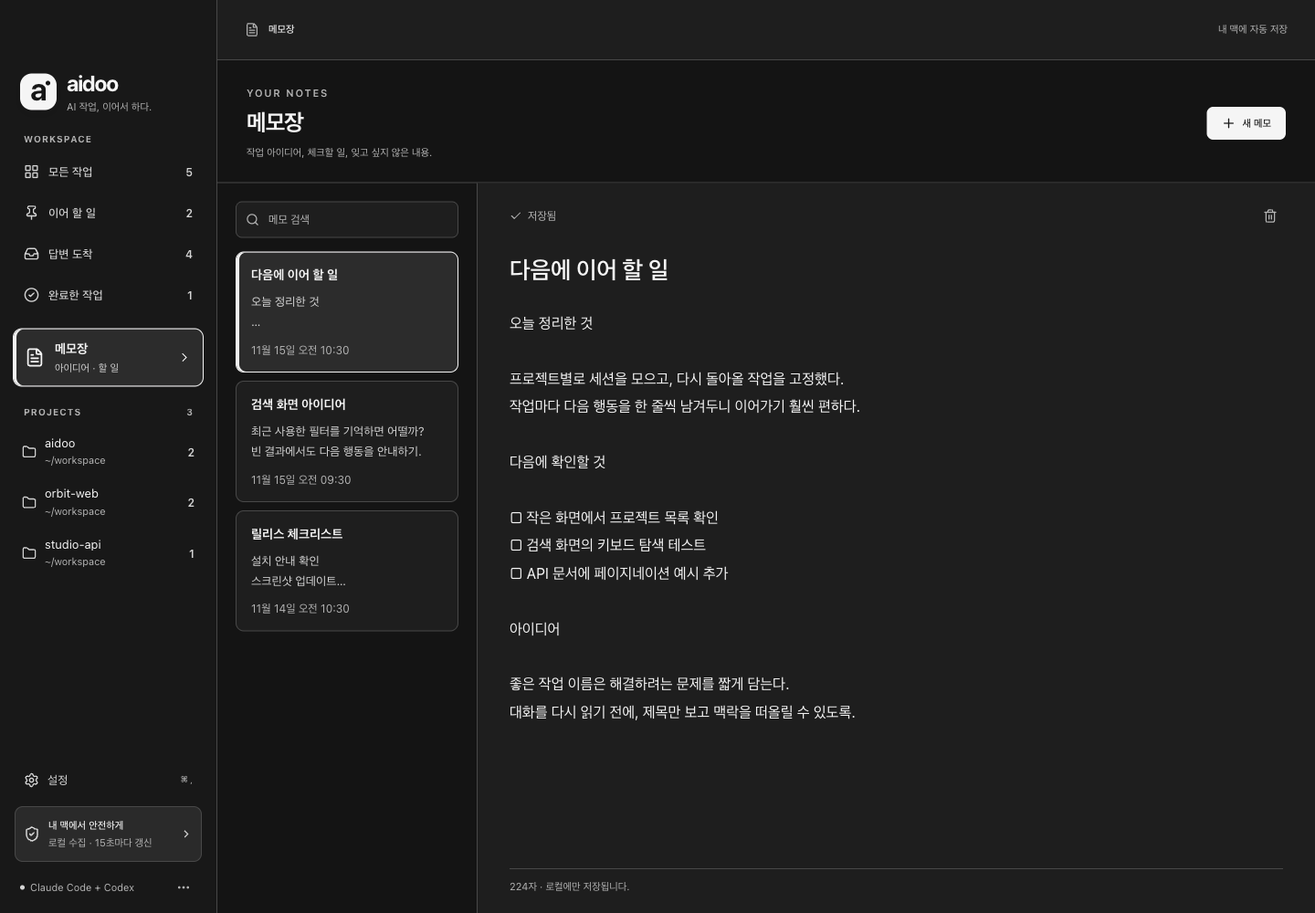
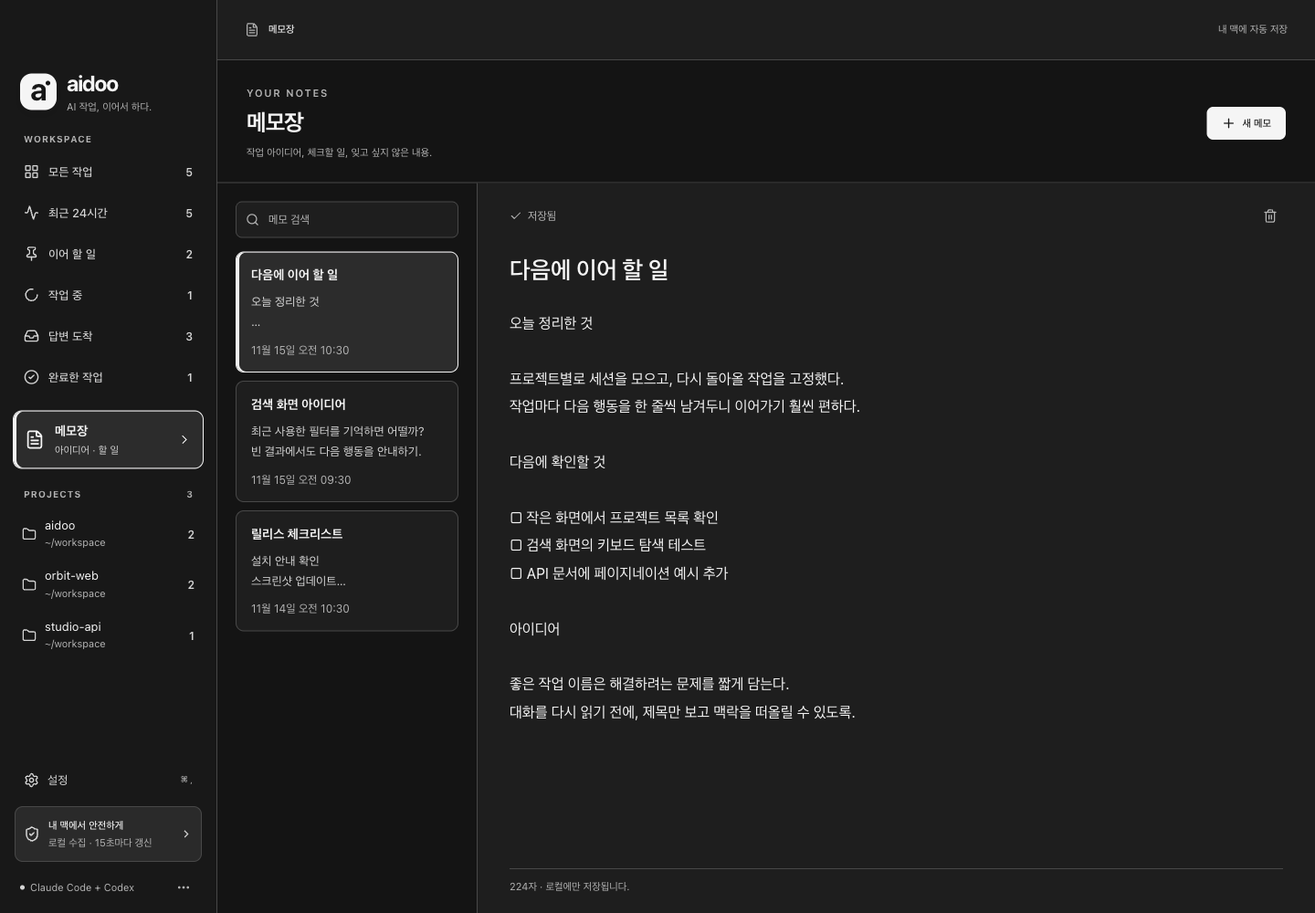
Tell running agents apart from finished turns
Intermediate assistant text made sessions that were still working look like finished replies. Claude Code status now comes from the session registry each running process keeps (busy or idle, matched by pid and start time), and from stop reasons and turn markers in the log once the process is gone. Codex uses task start and completion events. Sessions show 작업 중, 답변 도착 or 중단됨, with a 작업 중 filter and count.

Claude-Session: https://claude.ai/code/session_01UC48AHiTr7uA9vwWLQU8uy

Changed region(s): [[0.0, 0.31, 0.0938, 0.651], [0.0312, 0.682, 0.0938, 0.713], [0.0312, 0.217, 0.0938, 0.248]]

diff --git a/src/renderer/src/main.tsx b/src/renderer/src/main.tsx
@@ -10,8 +10,15 @@ import { Notes } from './Notes'
 import { Resizer, usePaneWidth } from './Resizer'
 
 type Order = 'recent' | 'project'
-type Filter = 'all' | 'today' | 'pinned' | 'reply' | 'done'
-const labels: Record<Filter, string> = { all: '모든 작업', today: '최근 24시간', pinned: '이어 할 일', reply: '답변 도착', done: '완료한 작업' }
+type Filter = 'all' | 'today' | 'pinned' | 'working' | 'reply' | 'done'
+const labels: Record<Filter, string> = { all: '모든 작업', today: '최근 24시간', pinned: '이어 할 일', working: '작업 중', reply: '답변 도착', done: '완료한 작업' }
+const statusLabels: Record<Session['status'], [string, string]> = {
+  working: ['작업 중', '에이전트가 지금 응답을 만들거나 도구를 실행하고 있어요.'],
+  reply: ['답변 도착', '에이전트가 작업을 마치고 내 답을 기다려요.'],
+  stalled: ['중단됨', '작업 도중 멈춘 대화예요. 터미널이 닫혔거나 응답이 끊겼어요.'],
+  recent: ['최근 활동', '방금 내가 보낸 요청이 마지막 기록이에요.'],
+  idle: ['이전 대화', '마지막 기록이 내 요청이에요.']
+}
 const DAY_SECONDS = 86400
 const shortPath = (value: string) => value.replace(/^\/Users\/[^/]+/, '~')
 const folderName = (value: string) => value.split('/').filter(Boolean).at(-1) || value
@@ -26,6 +33,10 @@ function relativeTime(seconds: number) {
 }
 function AgentMark({ agent, small = false }: { agent: string; small?: boolean }) {
   return <span className={`agent-mark ${small ? 'small' : ''}`} data-agent={agent}>{agent === 'claude' ? <Sparkles size={small ? 11 : 17} /> : <Code2 size={small ? 12 : 18} />}</span>
+}
+function StatusChip({ status, done }: { status: Session['status']; done?: boolean }) {
+  return <span className={`status ${done ? 'completed' : status}`} title={done ? undefined : statusLabels[status][1]}>
+    {done ? <Check size={11}/> : <span className="dot"/>}{done ? '완료' : statusLabels[status][0]}</span>
 }
 function App() {
   const [data, setData] = useState<Snapshot | null>(null)
@@ -99,6 +110,7 @@ function App() {
     all: sessions.filter(s => !state[s.id]?.done).length,
     today: sessions.filter(s => s.updatedAt >= activeSince && !state[s.id]?.done).length,
     pinned: sessions.filter(s => state[s.id]?.pinned && !state[s.id]?.done).length,
+    working: sessions.filter(s => s.status === 'working' && !state[s.id]?.done).length,
     reply: sessions.filter(s => s.status === 'reply' && !state[s.id]?.done).length,
     done: sessions.filter(s => state[s.id]?.done).length
   }
@@ -107,7 +119,7 @@ function App() {
     if (filter === 'done' ? !st.done : st.done) return false
     if (filter === 'today' && s.updatedAt < activeSince) return false
     if (filter === 'pinned' && !st.pinned) return false
-    if (filter === 'reply' && s.status !== 'reply') return false
+    if ((filter === 'working' || filter === 'reply') && s.status !== filter) return false
     if (agent !== 'all' && s.agent !== agent) return false
     const q = query.toLocaleLowerCase().trim()
     return !q || [titleOf(s), s.projectPath, s.cwd, s.goal, s.latestRequest, s.latestReply, st.note, st.ai?.summary].join(' ').toLocaleLowerCase().includes(q)
@@ -189,8 +201,8 @@ function App() {
       <div className="traffic-space" />
       <div className="brand"><div className="brand-icon"><span>a</span><i /></div><div><strong>aidoo</strong><p>AI 작업, 이어서 하다.</p></div></div>
       <div className="sidebar-label">WORKSPACE</div>
-      <nav className="main-nav">{(['all', 'today', 'pinned', 'reply', 'done'] as Filter[]).map((f, i) => {
-        const Icon = [LayoutGrid, Activity, Pin, Inbox, CircleCheck][i]
+      <nav className="main-nav">{(['all', 'today', 'pinned', 'working', 'reply', 'done'] as Filter[]).map((f, i) => {
+        const Icon = [LayoutGrid, Activity, Pin, LoaderCircle, Inbox, CircleCheck][i]
         return <button key={f} className={filter === f && !directory && !showNotes ? 'nav-item active' : 'nav-item'} onClick={() => { setShowNotes(false); setFilter(f); setDirectory('') }}>
           <Icon size={17} /><span>{labels[f]}</span><b>{counts[f]}</b></button>
       })}</nav>
@@ -211,6 +223,7 @@ function App() {
       <div className="stats-strip">
         <button onClick={() => { setFilter('today'); setDirectory('') }}><span className="stat-icon teal"><Activity size={16}/></span><span>최근 24시간</span><strong>{counts.today}</strong></button>
         <button onClick={() => { setFilter('pinned'); setDirectory('') }}><span className="stat-icon teal"><Pin size={16}/></span><span>이어 할 일</span><strong>{counts.pinned}</strong></button>
+        <button onClick={() => { setFilter('working'); setDirectory('') }}><span className="stat-icon working"><LoaderCircle size={16}/></span><span>작업 중</span><strong>{counts.working}</strong></button>
         <button onClick={() => { setFilter('reply'); setDirectory('') }}><span className="stat-icon orange"><Inbox size={16}/></span><span>답변 도착</span><strong>{counts.reply}</strong></button>
         <button onClick={() => { setFilter('done'); setDirectory('') }}><span className="stat-icon gray"><CheckCheck size={17}/></span><span>완료한 작업</span><strong>{counts.done}</strong></button>
       </div>
@@ -221,7 +234,7 @@ function App() {
         <div className="session-scroll">
           {data?.warnings.map(w => <div className="warning" key={w}>{w}</div>)}
           {!data && loading && <div className="empty-state"><LoaderCircle className="spin" size={28}/><h3>대화를 모으고 있어요</h3><p>Claude Code와 Codex의 로컬 기록을 읽는 중입니다.</p></div>}
-          {data && !visible.length && <div className="empty-state"><Inbox size={34}/><h3>{query ? '검색 결과가 없어요' : filter === 'today' ? '최근 24시간 동안 활동한 대화가 없어요' : filter === 'pinned' ? '이어 할 일을 골라보세요' : filter === 'done' ? '아직 완료한 작업이 없어요' : '표시할 대화가 없어요'}</h3><p>{filter === 'pinned' ? '대화의 핀 버튼을 누르면 여기에 모입니다.' : '필터를 바꾸거나 새 대화를 시작한 뒤 새로고침해 보세요.'}</p><button className="button secondary" onClick={() => { setFilter('all'); setDirectory(''); setQuery(''); setAgent('all') }}>모든 작업 보기</button></div>}
+          {data && !visible.length && <div className="empty-state"><Inbox size={34}/><h3>{query ? '검색 결과가 없어요' : filter === 'today' ? '최근 24시간 동안 활동한 대화가 없어요' : filter === 'working' ? '지금 작업 중인 대화가 없어요' : filter === 'pinned' ? '이어 할 일을 골라보세요' : filter === 'done' ? '아직 완료한 작업이 없어요' : '표시할 대화가 없어요'}</h3><p>{filter === 'pinned' ? '대화의 핀 버튼을 누르면 여기에 모입니다.' : '필터를 바꾸거나 새 대화를 시작한 뒤 새로고침해 보세요.'}</p><button className="button secondary" onClick={() => { setFilter('all'); setDirectory(''); setQuery(''); setAgent('all') }}>모든 작업 보기</button></div>}
           {(grouped ? [...groups] : [['', visible] as const]).map(([dir, items]) => <div className="session-group" key={dir || 'recent'}>
             {grouped && <div className="group-heading" title={dir}><FolderOpen size={15}/><strong>{folderName(dir)}</strong><span>{shortPath(dir)}</span><b>{items.length}</b></div>}
             {items.map(s => { const st = state[s.id] || {}; return <article key={s.id} className={`session-card ${active?.id === s.id ? 'selected' : ''} ${st.done ? 'done' : ''}`} onClick={() => setSelected(s.id)} tabIndex={0} onKeyDown={e => { if (e.key === 'Enter') setSelected(s.id) }}>
@@ -229,7 +242,7 @@ function App() {
               <h3>{st.done && <CircleCheck size={15}/>} {titleOf(s)}</h3>
               <p className="card-summary">{st.ai?.summary || s.latestReply || s.latestRequest}</p>
               {st.note && <p className="card-note"><Pencil size={11}/>{st.note}</p>}
-              <div className="card-bottom"><span className={`status ${st.done ? 'completed' : s.status}`}>{st.done ? <Check size={11}/> : <span className="dot"/>}{st.done ? '완료' : s.status === 'reply' ? '최근 답변 있음' : s.status === 'recent' ? '최근 활동' : '이전 대화'}</span>
+              <div className="card-bottom"><StatusChip status={s.status} done={st.done}/>
                 <button className={`pin-button ${st.pinned ? 'pinned' : ''}`} title={st.pinned ? '이어 할 일에서 해제' : '이어 할 일로 고정'} onClick={e => { e.stopPropagation(); update(s.id, { pinned: !st.pinned }) }}><Pin size={14}/>{st.pinned ? '고정됨' : '할 일로 고정'}</button></div>
             </article> })}
           </div>)}
@@ -242,7 +255,7 @@ function App() {
         <div className="detail-scroll" key={active.id}>
           <div className="detail-agent" data-agent={active.agent}><AgentMark agent={active.agent}/><span>{active.agent === 'claude' ? 'Claude Code' : 'Codex'}</span><span className="detail-session">{active.sessionId.slice(0, 8)}</span></div>
           <h2>{titleOf(active)}</h2>
-          <div className="detail-updated"><Clock3 size={13}/><span>최근 활동 <time dateTime={new Date(active.updatedAt * 1000).toISOString()}>{exactTime(active.updatedAt)}</time></span></div>
+          <div className="detail-updated"><Clock3 size={13}/><span>최근 활동 <time dateTime={new Date(active.updatedAt * 1000).toISOString()}>{exactTime(active.updatedAt)}</time></span><StatusChip status={active.status} done={activeState.done}/></div>
           <button className="directory-link" title={active.cwd} onClick={() => perform(() => window.aidoo.showFolder(active.id))}><Folder size={13}/><span>{shortPath(active.cwd)}</span><ArrowUpRight size={12}/></button>
           <button className="button primary open-session" disabled={actionBusy || (!active.orcaHandle && active.cwdMissing)} onClick={() => perform(() => window.aidoo.openSession(active.id))}>{active.orcaHandle ? <><ArrowUpRight size={16}/> Orca에서 대화 열기</> : active.cwdMissing ? <><FolderX size={16}/> 작업 폴더가 지워졌어요</> : active.orcaWorktree ? <><ArrowUpRight size={16}/> Orca에서 세션 재개</> : <><Terminal size={16}/> Terminal에서 세션 재개</>}</button>
           <div className="detail-actions"><button onClick={() => update(active.id, { pinned: !activeState.pinned })}><Pin size={13}/>{activeState.pinned ? '고정 해제' : '이어 할 일로'}</button><button onClick={() => update(active.id, { done: !activeState.done })}><CircleCheck size={14}/>{activeState.done ? '완료 취소' : '완료 처리'}</button><button title="재개 명령 복사" onClick={() => perform(() => window.aidoo.copyResume(active.id), '재개 명령을 복사했어요.')}><Copy size={14}/></button></div>
@@ -258,7 +271,7 @@ function App() {
           <section className="title-suggestion"><div className="section-title"><h4>이름 추천</h4><span className="subtle-tag">{activeState.ai ? 'AI 추천' : '첫 요청에서'}</span></div><p>{activeState.ai?.title || active.suggestedTitle}</p><button onClick={() => startRename(active, true)}><Pencil size={12}/> 이 이름으로 변경<ChevronRight size={13}/></button></section>
           <section className="note-section"><div className="section-title"><h4>내가 이어 할 일</h4><span className="muted">입력 후 포커스를 옮기면 저장</span></div><textarea key={`${active.id}-note`} defaultValue={activeState.note || ''} maxLength={6000} onBlur={e => { if (e.target.value !== (activeState.note || '')) update(active.id, { note: e.target.value }) }} placeholder="다음에 돌아왔을 때 기억할 내용을 적어두세요."/></section>
           <details className="conversation" data-agent={active.agent}><summary>대화 기록 보기 <span>{active.messages.length}개 발췌</span></summary>{active.messages.map((m, i) => <div key={i} className={`message ${m.role}`}><strong>{m.role === 'user' ? '나' : active.agent === 'claude' ? 'Claude' : 'Codex'}</strong><p>{m.text}</p></div>)}</details>
-          <p className="detail-footnote">{active.orcaHandle ? '연결된 Orca 탭으로 이동합니다.' : active.cwdMissing ? '대화를 실행하던 워크스페이스 폴더가 삭제돼서 이어갈 수 없어요. 대화 기록은 그대로 볼 수 있어요.' : active.orcaWorktree ? 'Orca 워크스페이스에 새 탭을 열고 같은 세션을 재개합니다.' : 'Orca에 등록되지 않은 폴더라 Terminal에서 같은 세션을 재개합니다.'}<br/>실행 상태는 대화 기록만으로 확정하지 않습니다.</p>
+          <p className="detail-footnote">{active.orcaHandle ? '연결된 Orca 탭으로 이동합니다.' : active.cwdMissing ? '대화를 실행하던 워크스페이스 폴더가 삭제돼서 이어갈 수 없어요. 대화 기록은 그대로 볼 수 있어요.' : active.orcaWorktree ? 'Orca 워크스페이스에 새 탭을 열고 같은 세션을 재개합니다.' : 'Orca에 등록되지 않은 폴더라 Terminal에서 같은 세션을 재개합니다.'}<br/>작업 중 표시는 Claude 실행 상태와 Codex 작업 기록으로 15초마다 확인해요.</p>
         </div>
       </> : <div className="empty-detail"><Activity size={30}/><h3>한 번에 하나씩, 이어가세요.</h3><p>대화를 선택하면 진행 내용과<br/>다음 할 일을 확인할 수 있어요.</p></div>}</aside></div>
     </main>

diff --git a/src/main/collector.ts b/src/main/collector.ts
@@ -13,7 +13,8 @@ export const orcaCLI = '/Applications/Orca.app/Contents/Resources/bin/orca'
 const LOG_BUDGET = 768 * 1024
 const LIMIT = 500
 type Row = Record<string, any>
-interface Parsed { cwd: string; title: string; messages: Message[]; lastEvent: string }
+type Turn = 'open' | 'ended' | ''
+interface Parsed { cwd: string; title: string; messages: Message[]; turn: Turn }
 interface Link { handle: string; title: string; workspacePath: string }
 interface Worktree { id: string; path: string }
 const cache = new Map<string, { version: string; parsed: Parsed }>()
@@ -56,8 +57,15 @@ function contentText(content: any): string {
   return content.filter(b => ['text', 'input_text', 'output_text'].includes(b?.type))
     .map(b => b.text || '').join('\n')
 }
+function claudeTurn(row: Row): Turn {
+  const message = row.message || {}
+  if (row.type === 'assistant') return message.stop_reason && message.stop_reason !== 'tool_use' ? 'ended' : 'open'
+  if (Array.isArray(message.content) && message.content.some((b: Row) => b?.type === 'tool_result')) return 'open'
+  // Interrupts and local slash commands end the turn without an agent reply.
+  return /^\s*(\[Request interrupted|<local-command|<command-)/.test(contentText(message.content)) ? 'ended' : 'open'
+}
 export function parseRecords(lines: string[], agent: Agent): Parsed {
-  const parsed: Parsed = { cwd: '', title: '', messages: [], lastEvent: '' }
+  const parsed: Parsed = { cwd: '', title: '', messages: [], turn: '' }
   const seen = new Set<string>()
   for (const line of lines) {
     let row: Row
@@ -67,14 +75,16 @@ export function parseRecords(lines: string[], agent: Agent): Parsed {
       if (row.isSidechain) continue
       parsed.cwd ||= row.cwd || ''
       if (row.type === 'custom-title') parsed.title = row.customTitle || ''
+      if (row.type === 'system' && row.subtype === 'turn_duration') parsed.turn = 'ended'
       if (!['user', 'assistant'].includes(row.type)) continue
+      if (!row.isMeta && !row.isCompactSummary) parsed.turn = claudeTurn(row)
       role = row.type
       text = contentText(row.message?.content)
     } else {
       const p = row.payload || {}
       if (row.type === 'session_meta') parsed.cwd = p.cwd || ''
       if (row.type === 'event_msg' && ['task_started', 'task_complete', 'turn_aborted'].includes(p.type))
-        parsed.lastEvent = p.type
+        parsed.turn = p.type === 'task_started' ? 'open' : 'ended'
       if (row.type !== 'response_item' || p.type !== 'message' || !['user', 'assistant'].includes(p.role)) continue
       role = p.role
       text = contentText(p.content)
@@ -189,7 +199,38 @@ function addProjectAliases(domains: Row, aliases: ProjectAlias[]) {
   }
   for (const repoPath of repos.values()) aliases.push({ workspacePath: repoPath, projectPath: repoPath })
 }
-async function session(agent: Agent, sid: string, file: string, codexHome: string, meta: Row, links: Map<string, Link>, worktrees: Worktree[]): Promise<Session | null> {
+// Claude Code registers each running process with its session id and whether it is busy.
+async function liveClaude(): Promise<Map<string, string>> {
+  const dirs = [...new Set([path.join(home, '.claude/sessions'),
+    ...(process.env.CLAUDE_CONFIG_DIR ? [path.join(process.env.CLAUDE_CONFIG_DIR, 'sessions')] : [])])]
+  const records: Row[] = []
+  for (const dir of dirs)
+    for (const e of await entries(dir)) {
+      if (!e.isFile() || !e.name.endsWith('.json')) continue
+      const record = await json(path.join(dir, e.name))
+      if (record?.sessionId && Number.isInteger(record.pid)) records.push(record)
+    }
+  const live = new Map<string, string>()
+  if (!records.length) return live
+  // Exited processes leave their file behind and pids get reused, so the start time has to match too.
+  const { stdout } = await exec('/bin/ps', ['-o', 'pid=,lstart=', '-p', records.map(r => r.pid).join(',')],
+    { encoding: 'utf8', timeout: 5000, env: { ...process.env, TZ: 'UTC' } }).catch(error => ({ stdout: String(error.stdout || '') }))
+  const started = new Map(stdout.split('\n').map(line => line.trim().match(/^(\d+)\s+(.+)$/))
+    .filter(m => m !== null).map(m => [Number(m[1]), m[2].replace(/\s+/g, ' ')]))
+  for (const r of records) {
+    const start = started.get(r.pid)
+    if (!start || (r.procStart && start !== String(r.procStart).replace(/\s+/g, ' ').trim())) continue
+    if (live.get(r.sessionId) !== 'busy') live.set(r.sessionId, String(r.status || 'idle'))
+  }
+  return live
+}
+export function sessionStatus(agent: Agent, turn: Turn, lastRole: string | undefined, live: string | undefined, quietSeconds: number): Session['status'] {
+  if (live === 'busy') return 'working'
+  if (!live && turn === 'open') return quietSeconds < (agent === 'codex' ? 600 : 120) ? 'working' : 'stalled'
+  if (lastRole === 'assistant') return 'reply'
+  return quietSeconds < 120 ? 'recent' : 'idle'
+}
+async function session(agent: Agent, sid: string, file: string, codexHome: string, meta: Row, links: Map<string, Link>, worktrees: Worktree[], live = new Map<string, string>()): Promise<Session | null> {
   const parsed = await parseLog(file, agent)
   const cwd = meta.cwd || parsed.cwd
   if (!cwd || !parsed.messages.length) return null
@@ -199,22 +240,22 @@ async function session(agent: Agent, sid: string, file: string, codexHome: strin
   const originalTitle = meta.name || parsed.title || link?.title || meta.title || ''
   const first = requests[0]?.text || ''
   const suggestedTitle = compact(first.split('\n').find(l => l.trim()) || originalTitle, 52) || '새 작업'
-  let updatedAt = meta.updated_at || (await fs.stat(file)).mtimeMs / 1000
+  const modifiedAt = (await fs.stat(file)).mtimeMs / 1000
+  let updatedAt = meta.updated_at || modifiedAt
   if (updatedAt > 100000000000) updatedAt /= 1000
-  const reply = parsed.lastEvent === 'task_complete' || (parsed.messages.at(-1)?.role === 'assistant' && parsed.lastEvent !== 'task_started')
   return {
     id: `${agent}:${sid}`, sessionId: sid, agent, cwd, projectPath: link?.workspacePath || cwd,
     originalTitle: compact(originalTitle) || suggestedTitle, suggestedTitle,
     goal: compact(first, 400), latestRequest: compact(requests.at(-1)?.text || '', 600),
     latestReply: compact(replies.at(-1)?.text || '', 1000), messages: parsed.messages,
-    updatedAt, status: reply ? 'reply' : Date.now() / 1000 - updatedAt < 120 ? 'recent' : 'idle',
+    updatedAt, status: sessionStatus(agent, parsed.turn, parsed.messages.at(-1)?.role, live.get(sid), Date.now() / 1000 - Math.max(updatedAt, modifiedAt)),
     sourcePath: file, codexHome, orcaHandle: link?.handle || '', inOrca: !!link,
     orcaWorktree: containingWorktree(cwd, worktrees), cwdMissing: !existsSync(cwd)
   }
 }
 export async function collect(workspaceRoots: string[] = [path.join(home, 'workspace')]) {
   const warnings: string[] = []
-  const { links, aliases, worktrees } = await orcaLinks(warnings)
+  const [{ links, aliases, worktrees }, live] = await Promise.all([orcaLinks(warnings), liveClaude()])
   const sessions = new Map<string, Session>()
   const roots = [...new Set([path.join(home, '.claude/projects'),
     ...(process.env.CLAUDE_CONFIG_DIR ? [path.join(process.env.CLAUDE_CONFIG_DIR, 'projects')] : [])])]
@@ -232,7 +273,7 @@ export async function collect(workspaceRoots: string[] = [path.join(home, 'works
   candidates.sort((a, b) => b.mtime - a.mtime)
   for (const { file } of candidates.slice(0, LIMIT)) {
     try {
-      const item = await session('claude', path.basename(file, '.jsonl'), file, '', {}, links, worktrees)
+      const item = await session('claude', path.basename(file, '.jsonl'), file, '', {}, links, worktrees, live)
       if (item) sessions.set(item.id, item)
     } catch { warnings.push(`Claude 기록 일부를 읽지 못했습니다: ${path.basename(file)}`) }
   }

diff --git a/tests/collector.test.ts b/tests/collector.test.ts
@@ -3,7 +3,7 @@ import assert from 'node:assert/strict'
 import { mkdtemp, writeFile, rm } from 'node:fs/promises'
 import os from 'node:os'
 import path from 'node:path'
-import { parseRecords, parseLog, shellQuote, clean, sql, run, containingWorktree } from '../src/main/collector'
+import { parseRecords, parseLog, shellQuote, clean, sql, run, containingWorktree, sessionStatus } from '../src/main/collector'
 
 test('Claude adapter excludes tool output, sidechains, and incomplete lines', () => {
   const rows = [
@@ -31,7 +31,7 @@ test('Codex adapter reads conversational items without duplicating event message
   ]
   const parsed = parseRecords(rows.map(r => JSON.stringify(r)), 'codex')
   assert.equal(parsed.cwd, '/tmp/codex')
-  assert.equal(parsed.lastEvent, 'task_complete')
+  assert.equal(parsed.turn, 'ended')
   assert.deepEqual(parsed.messages.map(m => m.text), ['fix auth', 'fixed'])
 })
 test('head and tail parsing retains first request and newest response for oversized logs', async () => {
@@ -83,4 +83,26 @@ test('read-only queries still open a WAL database after its writer has exited', 
     await rm(file + '-wal', { force: true }); await rm(file + '-shm', { force: true })
     assert.deepEqual(await sql(file, 'SELECT id FROM threads'), [{ id: 't1' }])
   } finally { await rm(dir, { recursive: true, force: true }) }
+})
+test('Claude turn state follows stop reasons, tool results, interrupts and turn markers', () => {
+  const turn = (...rows: object[]) => parseRecords(rows.map(r => JSON.stringify(r)), 'claude').turn
+  const ask = { type: 'user', message: { content: '테스트 돌려줘' } }
+  const working = { type: 'assistant', message: { stop_reason: 'tool_use', content: [{ type: 'text', text: '돌리는 중이에요' }, { type: 'tool_use' }] } }
+  const done = { type: 'assistant', message: { stop_reason: 'end_turn', content: [{ type: 'text', text: '다 통과했어요' }] } }
+  assert.equal(turn(ask), 'open')
+  assert.equal(turn(ask, working), 'open')
+  assert.equal(turn(ask, working, { type: 'user', message: { content: [{ type: 'tool_result', content: 'ok' }] } }), 'open')
+  assert.equal(turn(ask, done), 'ended')
+  assert.equal(turn(ask, done, { type: 'user', isMeta: true, message: { content: 'Caveat: local' } }), 'ended')
+  assert.equal(turn(ask, working, { type: 'user', message: { content: [{ type: 'text', text: '[Request interrupted by user]' }] } }), 'ended')
+  assert.equal(turn(ask, working, { type: 'system', subtype: 'turn_duration' }), 'ended')
+})
+test('session status separates running agents from finished turns and dropped ones', () => {
+  assert.equal(sessionStatus('claude', 'open', 'assistant', 'busy', 9999), 'working')
+  assert.equal(sessionStatus('claude', 'ended', 'assistant', 'idle', 5), 'reply')
+  assert.equal(sessionStatus('claude', 'open', 'assistant', undefined, 30), 'working')
+  assert.equal(sessionStatus('claude', 'open', 'assistant', undefined, 3600), 'stalled')
+  assert.equal(sessionStatus('codex', 'open', 'assistant', undefined, 300), 'working')
+  assert.equal(sessionStatus('codex', 'ended', 'assistant', undefined, 300), 'reply')
+  assert.equal(sessionStatus('claude', 'ended', 'user', undefined, 3600), 'idle')
 })

diff --git a/scripts/smoke.ts b/scripts/smoke.ts
@@ -38,6 +38,12 @@ try {
   expect(await page.locator('.session-card').count()).toBe(cardCount)
   await page.getByRole('button', { name: '최근 대화순' }).click()
   await expect(page.locator('.group-heading')).toHaveCount(0)
+  await page.locator('.nav-item', { hasText: '작업 중' }).click()
+  console.log('Working now:', await page.locator('.session-card').count())
+  expect(await page.locator('.session-card .status.working').count()).toBe(await page.locator('.session-card').count())
+  await page.locator('.nav-item', { hasText: '답변 도착' }).click()
+  expect(await page.locator('.session-card .status.reply').count()).toBe(await page.locator('.session-card').count())
+  await page.locator('.nav-item', { hasText: '모든 작업' }).click()
   const widthOf = async (selector: string) => Math.round((await page.locator(selector).boundingBox())!.width)
   const drag = async (name: string, dx: number) => {
     const box = (await page.getByRole('separator', { name }).boundingBox())!
@@ -86,7 +92,7 @@ try {
     expect(colors.timeSize).toBe('12px')
     await page.getByRole('button', { name: '설정 닫기' }).click()
     const contrasts = await page.evaluate(() => {
-      return ['.card-summary', '.card-time strong', '.excerpt p', '.list-footer'].map(selector => {
+      return ['.card-summary', '.card-time strong', '.excerpt p', '.list-footer', '.session-card .status.reply', '.session-card .status.working'].filter(selector => document.querySelector(selector)).map(selector => {
         const element = document.querySelector(selector)!
         let parent: Element | null = element
         let background = 'rgb(255, 255, 255)'
@@ -121,7 +127,7 @@ try {
   await page.locator('.modal button[type="submit"], .modal button.button.primary').click()
   await expect(page.locator('.detail-pane h2')).toHaveText('에이두 UI 검증')
   await page.locator('.detail-actions button').nth(0).click()
-  await page.locator('.nav-item').nth(2).click()
+  await page.locator('.nav-item', { hasText: '이어 할 일' }).click()
   await expect(page.locator('.session-card')).toHaveCount(1)
   await page.locator('textarea:visible').fill('다음에 테스트 결과 확인')
   await page.locator('.detail-pane h2').click()
@@ -131,10 +137,10 @@ try {
   await expect(page.locator('.card-note')).toContainText('다음에 테스트 결과 확인')
   await page.locator('.detail-actions button').nth(1).click()
   await expect(page.locator('.session-card')).toHaveCount(0)
-  await page.locator('.nav-item').nth(4).click()
+  await page.locator('.nav-item', { hasText: '완료한 작업' }).click()
   await expect(page.locator('.session-card')).toHaveCount(1)
   await page.locator('.detail-actions button').nth(1).click()
-  await page.locator('.nav-item').nth(0).click()
+  await page.locator('.nav-item', { hasText: '모든 작업' }).click()
   await page.locator('input[aria-label="작업 검색"]').fill('에이두 UI 검증')
   await expect(page.locator('.session-card')).toHaveCount(1)
   await page.locator('input[aria-label="작업 검색"]').fill('no-matching-task-9f53')

diff --git a/src/renderer/src/theme.css b/src/renderer/src/theme.css
@@ -26,6 +26,7 @@
   --codex: #6a50e8;
   --codex-tint: rgba(106, 80, 232, .1);
   --link: #0969da;
+  --working: #0757b8;
   color: var(--text);
   background: var(--bg);
 }
@@ -57,6 +58,7 @@
     --codex: #a49cff;
     --codex-tint: rgba(164, 156, 255, .16);
     --link: #4493f8;
+    --working: #79b8ff;
   }
 }
 
@@ -207,3 +209,15 @@
 .pane-resizer:hover::after,.pane-resizer:active::after,.pane-resizer:focus-visible::after {background: var(--accent);opacity: .35}
 .pane-resizer:focus-visible {outline: none}
 .is-resizing,.is-resizing * {cursor: col-resize !important;user-select: none}
+.status.working {color: var(--working);background: transparent;box-shadow: inset 0 0 0 1px color-mix(in srgb, var(--working) 45%, transparent)}
+.status.working .dot {background: var(--working);animation: status-pulse 1.4s ease-in-out infinite}
+.status.reply {color: var(--on-accent);background: var(--accent)}
+.status.reply .dot {background: var(--on-accent)}
+.status.stalled {color: var(--muted);background: transparent;box-shadow: inset 0 0 0 1px var(--border)}
+.stat-icon.working {background: var(--subtle);color: var(--working)}
+.detail-updated .status {margin-left: auto}
+@keyframes status-pulse {50% {opacity: .25}}
+@media (prefers-reduced-motion: reduce) {.status.working .dot {animation: none}}
+.stats-strip>button {min-width: 0}
+.stats-strip>button>span:not(.stat-icon) {min-width: 0;white-space: nowrap;overflow: hidden;text-overflow: ellipsis}
+@media (max-width: 1150px) {.stats-strip .stat-icon {display: none}}

diff --git a/scripts/docs-screenshots.ts b/scripts/docs-screenshots.ts
@@ -24,7 +24,7 @@ async function main() {
     projectPath: `/Users/demo/workspace/${project}`, originalTitle: title,
     suggestedTitle: title, goal: request, latestRequest: request, latestReply: reply,
     messages: [{ role: 'user', text: request, timestamp: new Date(now).toISOString() }, { role: 'assistant', text: reply, timestamp: new Date(now).toISOString() }],
-    updatedAt: now / 1000 - (i * 8 + 2) * 60, status: i === 3 ? 'recent' : 'reply',
+    updatedAt: now / 1000 - (i * 8 + 2) * 60, status: i === 0 ? 'working' : i === 3 ? 'recent' : 'reply',
     sourcePath: '', codexHome: '', orcaHandle: i < 2 ? `demo-${i}` : '', inOrca: i < 2, orcaWorktree: '', cwdMissing: false,
   }))
   const snapshot: Snapshot = {

diff --git a/src/shared/types.ts b/src/shared/types.ts
@@ -4,7 +4,7 @@ export interface Session {
   id: string; sessionId: string; agent: Agent; cwd: string; projectPath: string;
   originalTitle: string; suggestedTitle: string; goal: string;
   latestRequest: string; latestReply: string; messages: Message[];
-  updatedAt: number; status: 'reply' | 'recent' | 'idle'; sourcePath: string;
+  updatedAt: number; status: 'working' | 'reply' | 'stalled' | 'recent' | 'idle'; sourcePath: string;
   codexHome: string; orcaHandle: string; inOrca: boolean; orcaWorktree: string; cwdMissing: boolean;
 }
 export interface AiSummary { title: string; summary: string; nextAction: string; updatedAt: number }

diff --git a/README.ko.md b/README.ko.md
@@ -128,7 +128,7 @@ Orca는 별도의 대화 엔진으로 중복 표시하지 않습니다. 기존 C
 
 ### 현재 지원 범위
 
-- **활동 표시는 대화 기록 기준입니다.** 최근 답변이 있다는 사실만으로 에이전트의 실행·완료·승인 대기 상태를 확정하지 않습니다.
+- **작업 상태는 실행 정보와 기록으로 판단합니다.** Claude Code는 실행 중인 세션이 남기는 상태 파일로, Codex는 기록의 작업 시작과 완료 이벤트로 작업 중과 답변 도착을 구분합니다. Claude Code가 승인을 기다리면 답변 도착으로 보이고, Codex의 승인 대기는 따로 구분하지 않습니다.
 - **수집량에 제한이 있습니다.** 최근 세션 최대 500개, 대화당 앞뒤 768 KiB까지 읽습니다. 긴 대화의 중간 부분은 생략될 수 있으며, subagent 기록은 독립 작업에서 제외합니다.
 - **기존 앱 연결에는 범위가 있습니다.** Orca 터미널 연결을 지원합니다. 기존 Terminal·iTerm·IDE 탭 찾기, 원격 호스트 수집, Orca 네이티브 채팅 탭 연결은 지원하지 않습니다.
 - **연동 형식은 바뀔 수 있습니다.** Orca의 비공개 저장 형식을 일부 참조합니다. 이미 열린 Claude Code·Codex 화면은 새로 열거나 재개해야 변경된 이름이 보일 수 있습니다. 이름 변경이 일부 실패하면 앱에서 알려줍니다.

diff --git a/README.md b/README.md
@@ -128,7 +128,7 @@ Conversation transcripts are not copied into a separate on-disk archive. Optiona
 
 ### Current scope
 
-- **Activity comes from conversation history.** A recent reply is not proof that an agent is finished, running, or waiting for approval.
+- **Status comes from process state and history.** Claude Code sessions are read from the status file each running session keeps; Codex sessions from the task start and completion events in their log. A Claude Code session waiting for approval shows as a reply; Codex approval waits are not told apart.
 - **Collection is bounded.** Up to 500 recent sessions; up to 768 KiB from the beginning and end of each transcript. Long conversations can omit the middle. Subagent records are excluded as standalone work.
 - **Opening a session has limits.** Orca terminal matching is supported; finding existing Terminal, iTerm, or IDE tabs is not. Remote hosts and Orca native chat tabs are not supported.
 - **Integrations can change.** Orca matching uses some private storage formats. Already-open Claude Code or Codex screens may need a refresh or resume to show a renamed session. Partial rename failures are reported in the app.
